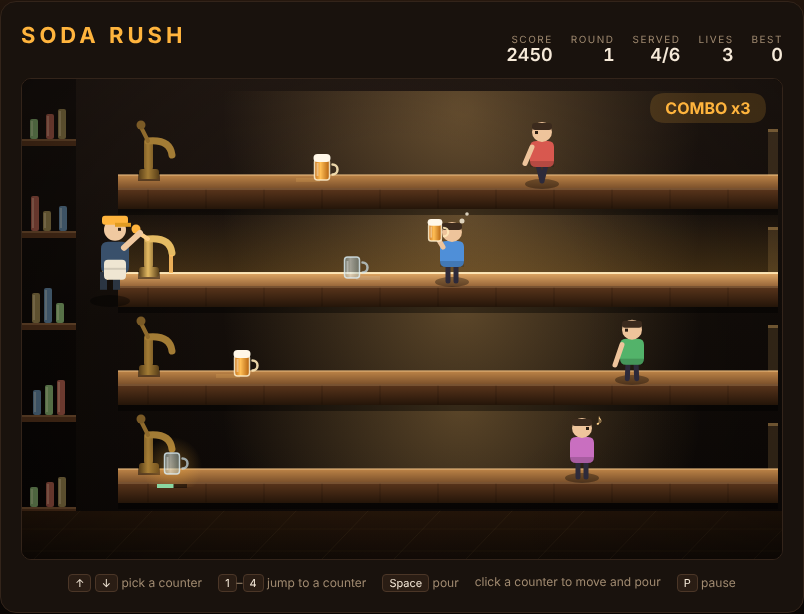
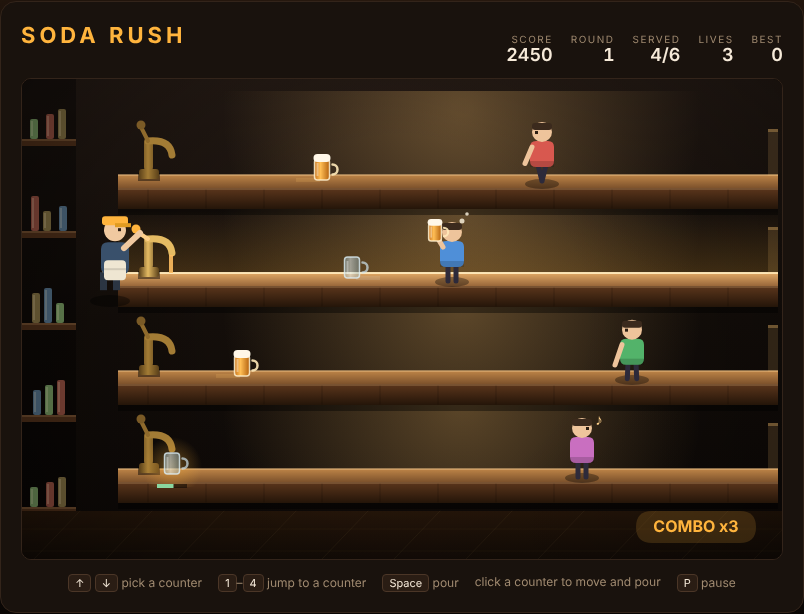
Soda Rush: rebuild the bar scene and say why a life was lost
The first pass rendered as brown-on-brown with a full-height tap tower
dominating the screen. The room is darker and the wood lighter so the
counters carry the picture, the tower is gone in favour of one brass tap
arching over each counter, the back bar is shelved with bottles, and the
live counter is marked by a glow and a chevron rather than a faint tint.

Losing a life now names the mistake on screen. `loseLife(reason)` already
took the reason and dropped it; a player who cannot tell which of the
three mistakes they just made cannot correct it. Two specs cover it, 88
in all.

Also makes the game-browser e2e suite count the games it loads instead of
the literal 109 it had drifted to, which is what its own comment says it
was for.

Claude-Session: https://claude.ai/code/session_01Rq8cS269RoZKcRhBAwxVnK

Changed region(s): [[0.7774, 0.8046, 0.9639, 0.8974], [0.8085, 0.1238, 0.9639, 0.2166], [0.1244, 0.3404, 0.1555, 0.4023]]

diff --git a/SodaRush/game.js b/SodaRush/game.js
@@ -41,6 +41,7 @@ const POUR_COOLDOWN = 0.22;
 const POUR_ANIM = 0.18;
 const CATCH_ANIM = 0.2;
 const RESET_PUSH = 70;      // how far customers are pushed back when a life is lost
+const NOTICE_TIME = 1.3;
 const SHARD_LIFE = 0.9;
 const FLASH_TIME = 1.4;
 const START_LIVES = 3;
@@ -82,6 +83,8 @@ let spawnIndex = 0;
 let autoStep = true;
 let flash = 0;
 let flashText = '';
+let notice = 0;             // the "here is what just went wrong" banner
+let noticeText = '';
 let hitFlash = 0;
 let shirtSeq = 0;
 
@@ -216,6 +219,7 @@ function startGame() {
     combo = 0;
     shards.length = 0;
     hitFlash = 0;
+    notice = 0;
     bartender.lane = 0;
     bartender.pourCooldown = 0;
     bartender.pourAnim = 0;
@@ -238,10 +242,18 @@ function togglePause() {
     }
 }
 
+const LOSS_NOTICE = {
+    grabbed: 'A CUSTOMER REACHED THE TAP',
+    spilled: 'MUG OFF THE END',
+    dropped: 'EMPTY GLASS SMASHED',
+};
+
 function loseLife(reason) {
     lives--;
     combo = 0;
     hitFlash = 0.5;
+    notice = NOTICE_TIME;
+    noticeText = LOSS_NOTICE[reason] || 'LIFE LOST';
     // Clear the counters and shove the queue back, so one disaster cannot
     // cascade into the rest of your lives over the following frames.
     mugs.length = 0;
@@ -250,7 +262,7 @@ function loseLife(reason) {
     }
     if (lives <= 0) {
         lives = 0;
-        gameOver(reason);
+        gameOver();
     }
 }
 
@@ -279,6 +291,7 @@ function step(dt) {
     bartender.pourAnim = Math.max(0, bartender.pourAnim - dt);
     bartender.catchAnim = Math.max(0, bartender.catchAnim - dt);
     flash = Math.max(0, flash - dt);
+    notice = Math.max(0, notice - dt);
     hitFlash = Math.max(0, hitFlash - dt);
     levelTime += dt;
 
@@ -842,14 +855,29 @@ function drawShard(s) {
 
 function drawCombo() {
     if (combo < 2) return;
+    // down on the floor, clear of the top counter's customers
+    const y = CANVAS_H - 48;
     ctx.fillStyle = 'rgba(255, 180, 61, 0.16)';
-    roundRect(CANVAS_W - 132, 14, 116, 30, 15);
+    roundRect(CANVAS_W - 146, y, 120, 32, 16);
     ctx.fill();
     ctx.fillStyle = '#ffb43d';
     ctx.font = 'bold 16px "Segoe UI", system-ui, sans-serif';
     ctx.textAlign = 'center';
     ctx.textBaseline = 'middle';
-    ctx.fillText(`COMBO x${combo}`, CANVAS_W - 74, 30);
+    ctx.fillText(`COMBO x${combo}`, CANVAS_W - 86, y + 16);
+}
+
+function drawNotice() {
+    if (notice <= 0) return;
+    const a = Math.min(1, notice / 0.4);
+    ctx.fillStyle = `rgba(0, 0, 0, ${0.5 * a})`;
+    roundRect(CANVAS_W / 2 - 170, CANVAS_H / 2 - 24, 340, 44, 22);
+    ctx.fill();
+    ctx.fillStyle = `rgba(255, 128, 96, ${a})`;
+    ctx.font = 'bold 20px "Segoe UI", system-ui, sans-serif';
+    ctx.textAlign = 'center';
+    ctx.textBaseline = 'middle';
+    ctx.fillText(noticeText, CANVAS_W / 2, CANVAS_H / 2 - 1);
 }
 
 function drawFlash() {
@@ -871,6 +899,7 @@ function draw() {
     for (const m of mugs) drawMug(m);
     for (const s of shards) drawShard(s);
     drawCombo();
+    drawNotice();
     drawFlash();
 
     if (hitFlash > 0) {

diff --git a/game-browser/e2e/game-browser.spec.ts b/game-browser/e2e/game-browser.spec.ts
@@ -31,7 +31,7 @@ test.describe('Game Browser', () => {
   test('should display games in a grid', async ({ page }) => {
     // Wait for games to load
     const gameCards = page.locator('app-game-card');
-    await expect(gameCards).toHaveCount(109);
+    await expect(gameCards).toHaveCount(GAME_COUNT);
 
     // Check first game card structure
     const firstCard = gameCards.first();
@@ -40,9 +40,9 @@ test.describe('Game Browser', () => {
   });
 
   test('should have search functionality', async ({ page }) => {
-    // Initial state: all 109 games visible
+    // Initial state: all GAME_COUNT games visible
     let gameCards = page.locator('app-game-card');
-    await expect(gameCards).toHaveCount(109);
+    await expect(gameCards).toHaveCount(GAME_COUNT);
 
     // Search for "Tetris"
     const searchInput = page.locator('input[placeholder="Search games..."]');
@@ -103,7 +103,7 @@ test.describe('Game Browser', () => {
     // Search should be empty and all games visible
     await expect(searchInput).toHaveValue('');
     const gameCards = page.locator('app-game-card');
-    await expect(gameCards).toHaveCount(109);
+    await expect(gameCards).toHaveCount(GAME_COUNT);
   });
 
   test('should reset category filter', async ({ page }) => {
@@ -114,7 +114,7 @@ test.describe('Game Browser', () => {
     // Games should be filtered
     let gameCards = page.locator('app-game-card');
     const filteredCount = await gameCards.count();
-    expect(filteredCount).toBeLessThan(109);
+    expect(filteredCount).toBeLessThan(GAME_COUNT);
 
     // Click Reset button
     const resetButton = page.locator('button:has-text("Reset")');
@@ -122,7 +122,7 @@ test.describe('Game Browser', () => {
 
     // All games should be visible again
     gameCards = page.locator('app-game-card');
-    await expect(gameCards).toHaveCount(109);
+    await expect(gameCards).toHaveCount(GAME_COUNT);
   });
 
   test('should display game card details', async ({ page }) => {

diff --git a/SodaRush/tests/sodarush.spec.js b/SodaRush/tests/sodarush.spec.js
@@ -652,6 +652,44 @@ test.describe('Soda Rush', () => {
             expect(await page.evaluate(() => lives)).toBe(2);
         });
 
+        test('the banner names which mistake cost the life', async ({ page }) => {
+            const seen = await page.evaluate(() => {
+                const run = (setup) => {
+                    mugs.length = 0;
+                    customers.length = 0;
+                    notice = 0;
+                    lives = 9;
+                    setup();
+                    for (let i = 0; i < 600 && !notice; i++) step(1 / 60);
+                    return noticeText;
+                };
+                setLane(0);
+                return {
+                    spilled: run(() => mugs.push({ lane: 1, x: END_X - 1, full: true, resting: false, timer: 0 })),
+                    grabbed: run(() => spawnCustomer(2, TAP_X + 1)),
+                    dropped: run(() => {
+                        const m = spawnEmpty(3, TAP_X);
+                        m.resting = true;
+                        m.timer = 0.05;
+                    }),
+                };
+            });
+            expect(seen.spilled).toMatch(/end/i);
+            expect(seen.grabbed).toMatch(/customer/i);
+            expect(seen.dropped).toMatch(/smash/i);
+            expect(new Set(Object.values(seen)).size).toBe(3);
+        });
+
+        test('the banner fades on its own', async ({ page }) => {
+            await page.evaluate(() => {
+                pour();
+                for (let i = 0; i < 600 && lives === 3; i++) step(1 / 60);
+            });
+            expect(await page.evaluate(() => notice)).toBeGreaterThan(0);
+            await advance(page, Math.ceil((await page.evaluate(() => NOTICE_TIME)) * 60) + 5);
+            expect(await page.evaluate(() => notice)).toBe(0);
+        });
+
         test('the last life ends the game', async ({ page }) => {
             await page.evaluate(() => {
                 lives = 1;

diff --git a/SodaRush/DESIGN.md b/SodaRush/DESIGN.md
@@ -103,8 +103,11 @@ a mug smashes while a customer reaches the tap.
 
 ### Losing a life
 
-`loseLife(reason)` drops `lives`, resets the combo, throws a burst of shards, and
-then *resets the counters*: every mug in play is removed and the surviving
+`loseLife(reason)` drops `lives`, resets the combo, throws a burst of shards,
+names the mistake on screen for `NOTICE_TIME` seconds (the three reasons —
+`grabbed`, `spilled`, `dropped` — map to a banner, because a player who cannot
+tell *which* of the three just happened cannot correct it), and then *resets the
+counters*: every mug in play is removed and the surviving
 walking customers are pushed `RESET_PUSH` pixels back towards the open end. That
 keeps the pressure on (the customers are still coming) without the unfair
 cascade where a customer standing at the tap costs the rest of your lives in the

diff --git a/SodaRush/README.md b/SodaRush/README.md
@@ -78,7 +78,7 @@ written before the implementation:
 npx playwright test SodaRush/tests/
 ```
 
-Among its 86 specs are end-to-end ones that play the opening rounds to
+Among its 88 specs are end-to-end ones that play the opening rounds to
 completion with the real rules and a deliberately simple greedy strategy, so
 the game can never regress into being unwinnable — or into being winnable while
 standing still.
